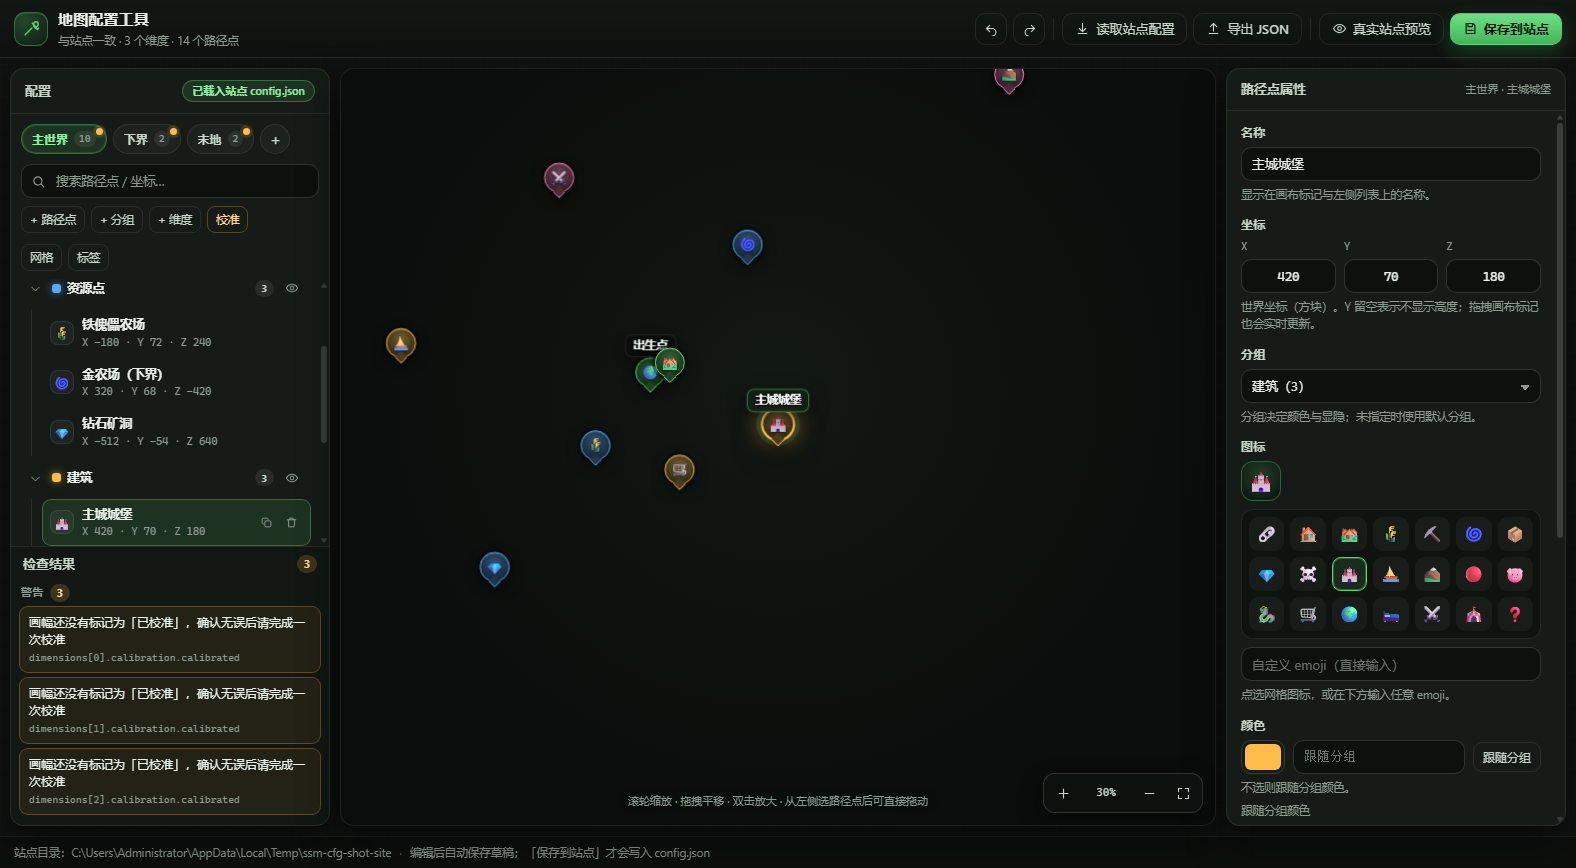
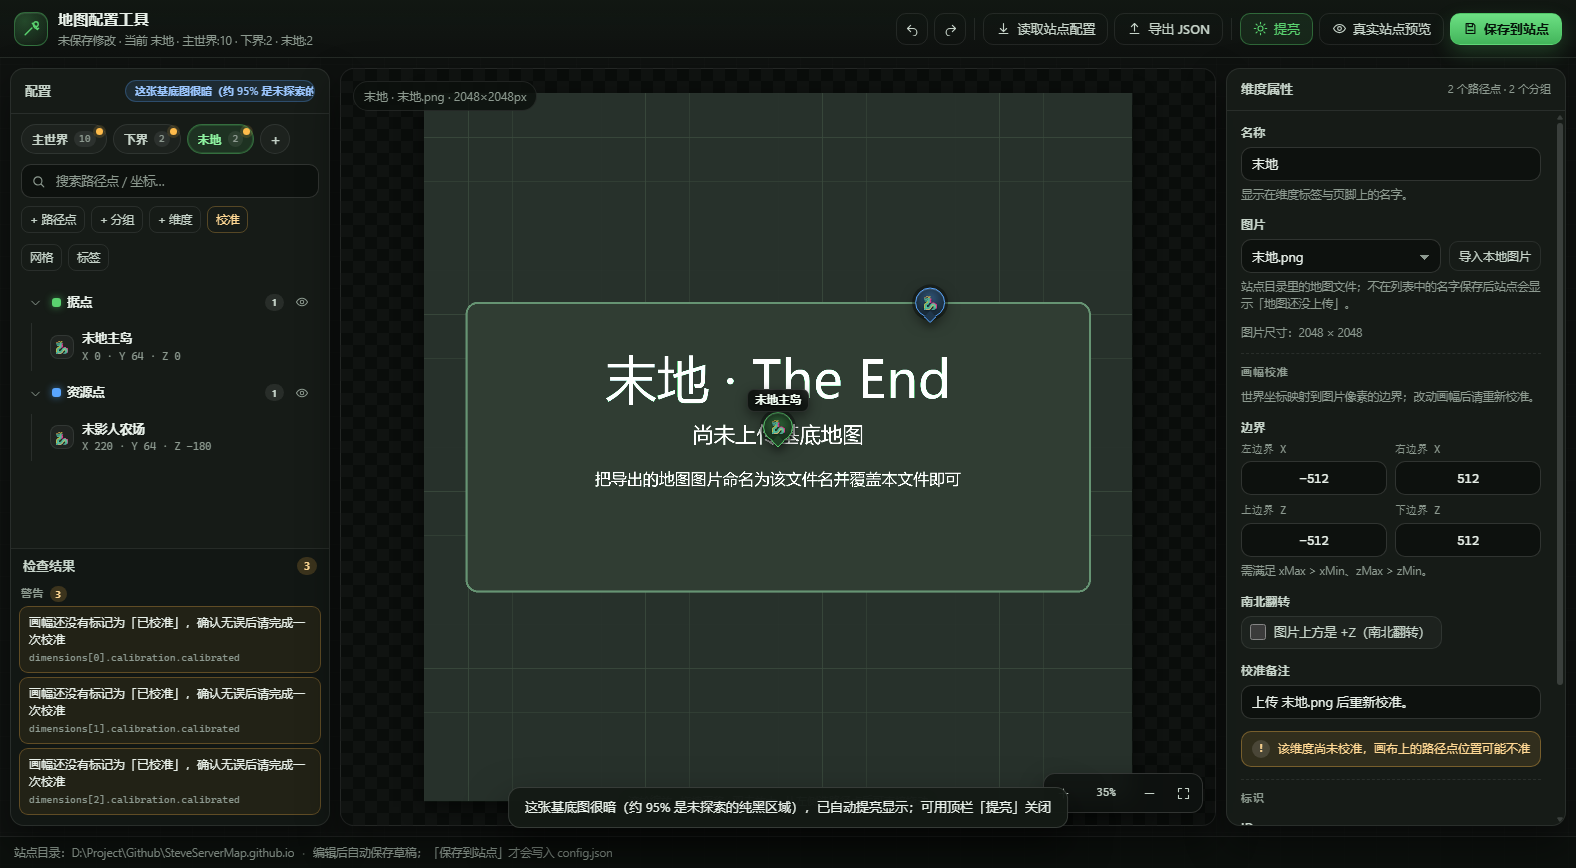
fix: 基底图永远不显示（opacity:0 缺 is-loaded）+ 暗图提亮与画布信息条
根因：tool.css 用 .canvas-image{opacity:0} + .is-loaded{opacity:1} 做淡入，
但 canvas.js 的 setImage 从未加 is-loaded，图片在 DOM 里、尺寸正确、却完全不绘制。
用户看到的就是「地图区没有地图」。

- canvas.js：onLoad 里补 img.classList.add('is-loaded') + opacity=1
- 新增暗图提亮：工具栏 #btn-enhance / body[data-enhance] / localStorage 记忆；
  按缩略图统计自动判断（litRatio<0.45 或 mean<42），主世界.png 79.6% 纯黑会自动开启
- 新增画布信息条 #canvas-info（维度 · 文件名 · 像素尺寸），让「图有没有加载成功」一眼可见
- index.html：file:// 或 app.js 加载失败时显示 #boot-fallback 引导页，而不是空白页
- tool.css：画布棋盘底 + 图片描边，暗图也能看清图片边界
- README：新增「地图区是空的 / 地图很暗」两条 FAQ

diff --git a/assets/js/app.js b/assets/js/app.js
@@ -13,6 +13,10 @@ import * as model from './model.js';
 import { EditorCanvas } from './canvas.js';
 import { EditorPanel } from './editor.js';
 
+// 让 index.html 的兜底提示能区分「模块压根没跑起来」和「模块在跑、只是慢」：
+// 只要这一行执行了，说明 ES Module 加载成功，不需要再提示 file:// 那一套。
+window.__toolBooting = true;
+
 /* ============================== DOM 小工具 ============================== */
 
 const $ = (id) => document.getElementById(id);
@@ -46,6 +50,10 @@ const state = {
   pickHandler: null,
   pickExitHook: null,
   picks: { a: null, b: null },
+
+  /** 暗图提亮：enhancePref = null 表示按图片亮度自动判断 */
+  enhancePref: null,
+  enhanceOn: false,
 
   /** 放置模式：placeFor = 正在等待点击落位的路径点 id */
   placeFor: null,
@@ -90,6 +98,10 @@ bootstrap().catch((err) => {
   console.error('[tool] 启动失败：', err);
   setStatus(`启动失败：${err.message}`, 'error');
   toast(`启动失败：${err.message}`, 'error');
+  // 画布区给出可操作提示，避免「一片空白不知道哪里错了」
+  showCanvasEmpty(
+    `应用没有启动成功：${err.message} —— 请确认页面是用 node server.mjs 启动后通过 http://127.0.0.1:5273/ 打开的（不要双击 index.html）`,
+  );
 });
 
 async function bootstrap() {
@@ -133,6 +145,7 @@ async function bootstrap() {
   // 3) 界面
   initPanel();
   initCanvas();
+  state.enhancePref = readEnhancePref();
   panel?.setImages?.(state.images);
 
   const firstDim =
@@ -300,11 +313,14 @@ async function loadImageFor(dim) {
   if (!size || !size.width) {
     dim.imageMeta = { width: 0, height: 0, missing: true };
     canvas.setImage({ src: '', width: 0, height: 0 });
+    updateCanvasInfo(null);
     return null;
   }
   dim.imageMeta = { width: size.width, height: size.height, missing: false };
   ensureCalibration(dim, size);
   canvas.setImage({ src, width: size.width, height: size.height });
+  updateCanvasInfo(dim);
+  autoEnhanceFor(src);
   return size;
 }
 
@@ -339,6 +355,115 @@ function refreshCanvas() {
   canvas.setGrid(state.draft.ui?.grid === true);
   canvas.setLabelMode(state.draft.ui?.labelMode || 'hover');
   canvas.setFilter(state.search ? (wp) => model.waypointMatchesQuery(wp, state.search) : null);
+}
+
+/* ------------------------------ 暗图提亮 / 画布信息 ------------------------------ */
+
+/** 很多离线渲染的地图大部分是未探索的纯黑，在深色界面上看起来像“没有地图”。
+ *  这里按需给基底图加一个 brightness filter（纯黑仍是黑，不会失真），并记住用户选择。 */
+const ENHANCE_FILTER = 'brightness(2.8) saturate(1.15) contrast(1.02)';
+const ENHANCE_KEY = 'ssm.enhance.v1';
+
+function readEnhancePref() {
+  try {
+    const value = localStorage.getItem(ENHANCE_KEY);
+    if (value === '1') return true;
+    if (value === '0') return false;
+    return null; // 未选择过 → 按图片亮度自动判断
+  } catch {
+    return null;
+  }
+}
+
+function applyEnhance(on) {
+  const img = $('canvas-image');
+  if (img) img.style.filter = on ? ENHANCE_FILTER : 'none';
+  document.body.dataset.enhance = on ? '1' : '0';
+  state.enhanceOn = on;
+  const btn = $('btn-enhance');
+  if (btn) {
+    btn.setAttribute('aria-pressed', on ? 'true' : 'false');
+    btn.classList.toggle('is-active', on);
+    btn.title = on ? '已提亮：点击关闭（纯黑的是未探索区域）' : '提亮基底图（很多离线地图渲染很暗）';
+  }
+}
+
+/** 缩略图统计：平均亮度 + “有内容像素”占比，用来判断这张图是不是暗图 */
+function analyzeImage(src) {
+  return new Promise((resolve) => {
+    const img = new Image();
+    img.onload = () => {
+      try {
+        const size = 64;
+        const cv = document.createElement('canvas');
+        cv.width = size;
+        cv.height = size;
+        const ctx = cv.getContext('2d', { willReadFrequently: true });
+        ctx.drawImage(img, 0, 0, size, size);
+        const data = ctx.getImageData(0, 0, size, size).data;
+        let sum = 0;
+        let lit = 0;
+        let n = 0;
+        for (let i = 0; i < data.length; i += 4) {
+          const lum = 0.2126 * data[i] + 0.7152 * data[i + 1] + 0.0722 * data[i + 2];
+          sum += lum;
+          if (lum > 26) lit += 1;
+          n += 1;
+        }
+        resolve({ mean: sum / n, litRatio: lit / n });
+      } catch (err) {
+        console.warn('[tool] 图片亮度分析失败：', err);
+        resolve(null);
+      }
+    };
+    img.onerror = () => resolve(null);
+    img.src = src;
+  });
+}
+
+function autoEnhanceFor(src) {
+  const pref = state.enhancePref;
+  if (pref !== null && pref !== undefined) {
+    applyEnhance(pref === true);
+    return;
+  }
+  analyzeImage(src).then((stats) => {
+    if (!stats) return;
+    const dark = stats.litRatio < 0.45 || stats.mean < 42;
+    applyEnhance(dark);
+    if (dark) {
+      toast(
+        `这张基底图很暗（约 ${Math.round((1 - stats.litRatio) * 100)}% 是未探索的纯黑区域），已自动提亮显示；可用顶栏「提亮」关闭`,
+        'info',
+        7000,
+      );
+    }
+  });
+}
+
+function toggleEnhance() {
+  const next = !state.enhanceOn;
+  state.enhancePref = next;
+  try {
+    localStorage.setItem(ENHANCE_KEY, next ? '1' : '0');
+  } catch {
+    /* ignore */
+  }
+  applyEnhance(next);
+  toast(next ? '已提亮基底图（纯黑的是未探索区域）' : '已关闭提亮，显示原始亮度', 'info', 2600);
+}
+
+/** 画布左上角信息条：明确告诉用户当前显示的是哪张图、多大 */
+function updateCanvasInfo(dim) {
+  const el = $('canvas-info');
+  if (!el) return;
+  const meta = (dim && dim.imageMeta) || {};
+  if (!dim || !meta.width) {
+    el.hidden = true;
+    return;
+  }
+  el.hidden = false;
+  el.textContent = `${dim.name} · ${dim.image} · ${meta.width}×${meta.height}px`;
 }
 
 function refreshEditor() {
@@ -1368,6 +1493,7 @@ function bindKeyboard() {
   $('btn-fit')?.addEventListener('click', () => canvas?.fitToContent?.());
   $('zoom-in')?.addEventListener('click', () => canvas?.zoomBy?.(1.35));
   $('zoom-out')?.addEventListener('click', () => canvas?.zoomBy?.(1 / 1.35));
+  $('btn-enhance')?.addEventListener('click', toggleEnhance);
 
   $('search')?.addEventListener('input', (event) => {
     state.search = String(event.target.value || '').trim();
@@ -1455,6 +1581,10 @@ function calibrateFromPoints(a, b) {
 }
 
 export { state, api, saveToSite as save };
+
+
+
+
 
 
 

diff --git a/index.html b/index.html
@@ -44,6 +44,10 @@
       </div>
       <div class="toolbar-sep" aria-hidden="true"></div>
       <div class="toolbar-group">
+        <button id="btn-enhance" class="btn ghost" type="button" aria-pressed="false"
+                title="提亮基底图（很多离线地图渲染很暗，纯黑的是未探索区域）">
+          <svg class="icon"><use href="#i-sun"></use></svg><span>提亮</span>
+        </button>
         <button id="btn-preview" class="btn ghost" type="button" title="用真实站点预览当前配置">
           <svg class="icon"><use href="#i-eye"></use></svg><span>真实站点预览</span>
         </button>
@@ -90,6 +94,7 @@
         </div>
         <div id="canvas-overlay" class="canvas-overlay"></div>
         <div id="canvas-empty" class="canvas-empty" hidden></div>
+        <div id="canvas-info" class="canvas-info" hidden></div>
         <div id="mode-badge" class="mode-badge" hidden></div>
         <div id="coord-readout" class="coord-readout" hidden>X — Z —</div>
         <div class="zoom-panel" role="group" aria-label="缩放">
@@ -185,9 +190,70 @@
     <symbol id="i-folder" viewBox="0 0 24 24"><path d="M3 7a2 2 0 012-2h4l2 2.5h8a2 2 0 012 2V18a2 2 0 01-2 2H5a2 2 0 01-2-2z"/></symbol>
     <symbol id="i-chevron" viewBox="0 0 24 24"><path d="M9.5 5l7 7-7 7"/></symbol>
     <symbol id="i-grid" viewBox="0 0 24 24"><path d="M4 4h16v16H4zM4 9.3h16M4 14.6h16M9.3 4v16M14.6 4v16"/></symbol>
+    <symbol id="i-sun" viewBox="0 0 24 24"><circle cx="12" cy="12" r="4"/><path d="M12 2v2.5M12 19.5V22M2 12h2.5M19.5 12H22M4.9 4.9l1.8 1.8M17.3 17.3l1.8 1.8M19.1 4.9l-1.8 1.8M6.7 17.3l-1.8 1.8"/></symbol>
   </defs>
 </svg>
+
+<!-- ==================== 启动兜底提示（不依赖 ES Module） ==================== -->
+<!-- 浏览器在 file:// 下会直接拒绝加载 <script type="module">，app.js 根本不会执行。
+     这里用一个普通脚本兜底：双击 index.html 或模块加载失败时，给出可操作的提示，
+     而不是让人对着一个永远「加载中…」的空画布发呆。 -->
+<div id="boot-fallback" hidden style="position:fixed;inset:0;z-index:9999;place-items:center;background:#0f1210;color:#e8efe8;font:14px/1.7 -apple-system,'Segoe UI','Microsoft YaHei',sans-serif;padding:24px">
+  <div style="max-width:620px;background:#141a15;border:1px solid #2b352c;border-radius:16px;padding:26px 30px;box-shadow:0 24px 70px rgba(0,0,0,.6)">
+    <h2 style="margin:0 0 10px;font-size:19px;color:#5ad26f">这个工具必须通过本地服务器打开</h2>
+    <p style="margin:0 0 12px;color:#c9d6cb">
+      浏览器不允许在 <code style="background:#0e130f;padding:1px 5px;border-radius:5px">file://</code> 下加载 ES Module，
+      所以直接双击 <code style="background:#0e130f;padding:1px 5px;border-radius:5px">index.html</code> 会看到空白页（地图也不会出现）。
+    </p>
+    <p style="margin:0 0 8px;color:#93a394">在工具目录里任选一种方式启动：</p>
+    <pre style="margin:0 0 14px;padding:12px 14px;background:#0b0f0c;border:1px solid #223026;border-radius:10px;color:#d7e6d9;overflow:auto">双击 start.cmd
+或  node server.mjs
+或  npm start</pre>
+    <p style="margin:0;color:#c9d6cb">
+      然后访问 <a href="http://127.0.0.1:5273/" style="color:#5ad26f">http://127.0.0.1:5273/</a>（如果换了端口，用它打印出来的地址）。
+    </p>
+    <p id="boot-fallback-detail" style="margin:14px 0 0;color:#93a394;font-size:12px"></p>
+  </div>
+</div>
+
+<script>
+  (function () {
+    var shown = false;
+    function show(detail) {
+      if (shown || window.__tool || window.__toolBooting) return;
+      shown = true;
+      var box = document.getElementById('boot-fallback');
+      if (!box) return;
+      box.hidden = false;
+      box.style.display = 'grid';
+      var d = document.getElementById('boot-fallback-detail');
+      if (d && detail) d.textContent = detail;
+    }
+    if (location.protocol === 'file:') {
+      show('当前地址是 file:// —— 请按上面的方式启动本地服务器后再访问 http://127.0.0.1:5273/');
+    }
+    window.addEventListener(
+      'error',
+      function (event) {
+        var tag = event && event.target;
+        if (tag && tag.tagName === 'SCRIPT' && /app\.js/.test(String(tag.src || ''))) {
+          show('assets/js/app.js 加载失败（' + (tag.src || '') + '）。');
+        }
+      },
+      true,
+    );
+    setTimeout(function () {
+      show(
+        window.__tool
+          ? ''
+          : '应用脚本没有启动：可能是模块加载失败，或者页面不是通过本地服务器打开的（检查地址栏是否为 http://127.0.0.1:5273/）。',
+      );
+    }, 3500);
+  })();
+</script>
 
 <script type="module" src="assets/js/app.js"></script>
 </body>
 </html>
+
+

diff --git a/assets/css/tool.css b/assets/css/tool.css
@@ -2420,3 +2420,60 @@ body.preview-open {
     padding: 0;
   }
 }
+
+/* ==========================================================================
+   Lead 集成补充（v1）：暗图可见性 / 画布信息条 / 提亮按钮
+   —— 离线渲染的地图常常 80% 是未探索的纯黑，在深色界面上看起来像「没有地图」，
+      这里给画布加棋盘底、给图片加描边，让「图片加载了」这件事一眼可见。
+   ========================================================================== */
+
+.canvas-root {
+  background-color: #0a0d0b;
+  background-image:
+    linear-gradient(45deg, rgba(255, 255, 255, 0.022) 25%, transparent 25%, transparent 75%, rgba(255, 255, 255, 0.022) 75%),
+    linear-gradient(45deg, rgba(255, 255, 255, 0.022) 25%, transparent 25%, transparent 75%, rgba(255, 255, 255, 0.022) 75%);
+  background-size: 24px 24px;
+  background-position: 0 0, 12px 12px;
+}
+
+#canvas-image {
+  background: #050706;
+  box-shadow:
+    0 0 0 1px rgba(90, 210, 111, 0.3),
+    0 18px 60px rgba(0, 0, 0, 0.55);
+}
+
+body[data-enhance="1"] #canvas-image {
+  /* filter 由 app.js 内联设置（提亮倍数要能一起调），这里只做兜底 */
+  filter: brightness(2.8) saturate(1.15) contrast(1.02);
+}
+
+.canvas-info {
+  position: absolute;
+  left: 12px;
+  top: 12px;
+  z-index: 6;
+  max-width: 46%;
+  overflow: hidden;
+  text-overflow: ellipsis;
+  white-space: nowrap;
+  padding: 5px 10px;
+  border: 1px solid var(--border);
+  border-radius: var(--radius-pill, 999px);
+  background: rgba(12, 17, 13, 0.85);
+  color: var(--muted);
+  font-size: 12px;
+  font-variant-numeric: tabular-nums;
+  pointer-events: none;
+}
+
+.canvas-info[hidden] {
+  display: none !important;
+}
+
+#btn-enhance.is-active,
+#btn-enhance[aria-pressed="true"] {
+  color: var(--accent);
+  border-color: var(--accent-line, rgba(90, 210, 111, 0.55));
+  background: rgba(90, 210, 111, 0.1);
+}

diff --git a/assets/js/canvas.js b/assets/js/canvas.js
@@ -717,6 +717,10 @@ export class EditorCanvas {
         }
         this._showEmpty(false);
         this._setImageSize(naturalW, naturalH);
+        // tool.css 里 .canvas-image 默认 opacity:0，加载完成后靠这个类淡入；
+        // 少了这一行图片会永远不可见（DOM 有、尺寸对、但画不出来）。
+        img.classList.add('is-loaded');
+        img.style.opacity = '1';
         finish({ width: naturalW, height: naturalH });
       };
       const onError = () => {
@@ -1946,3 +1950,4 @@ const ICON_FALLBACKS = Object.freeze({
 });
 
 export default EditorCanvas;
+
